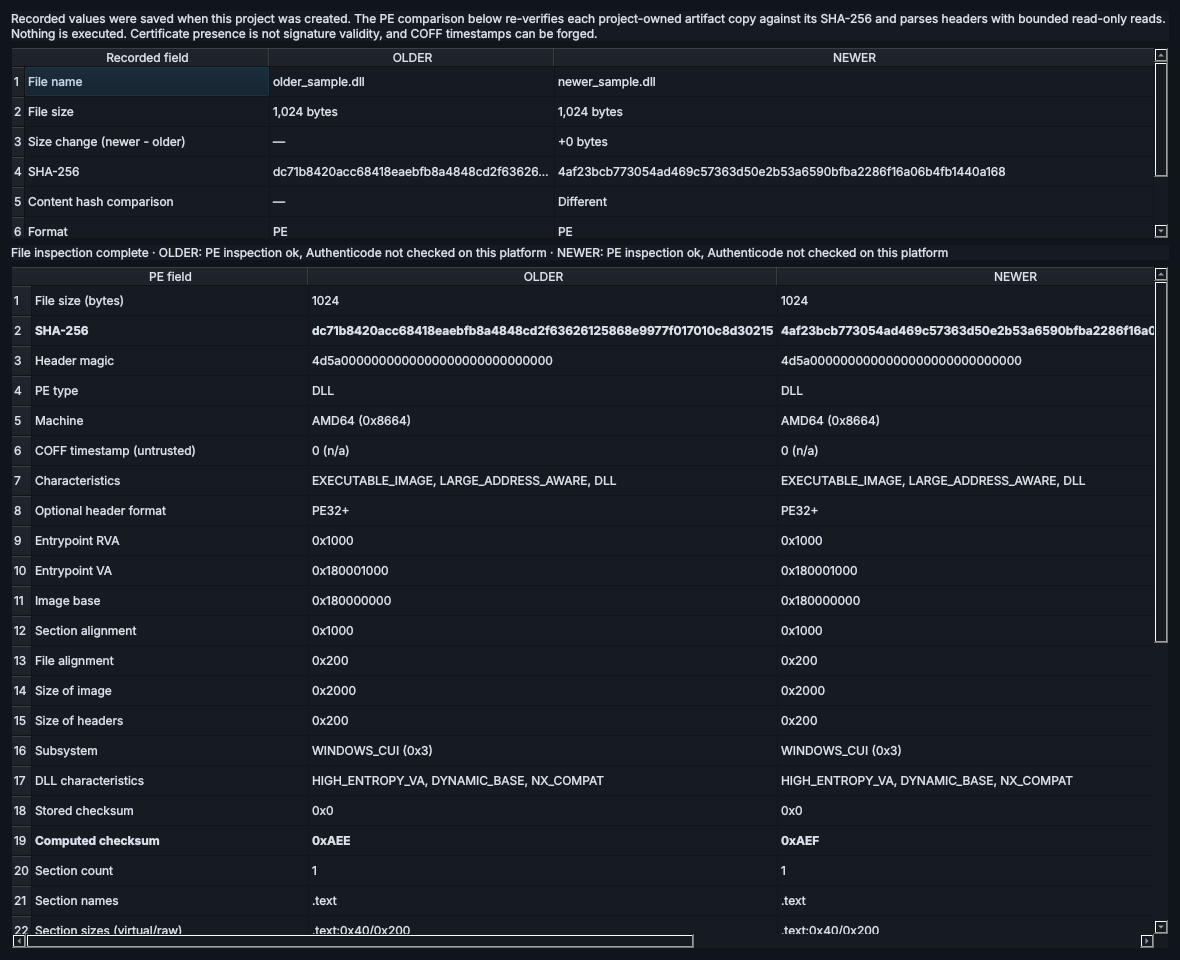
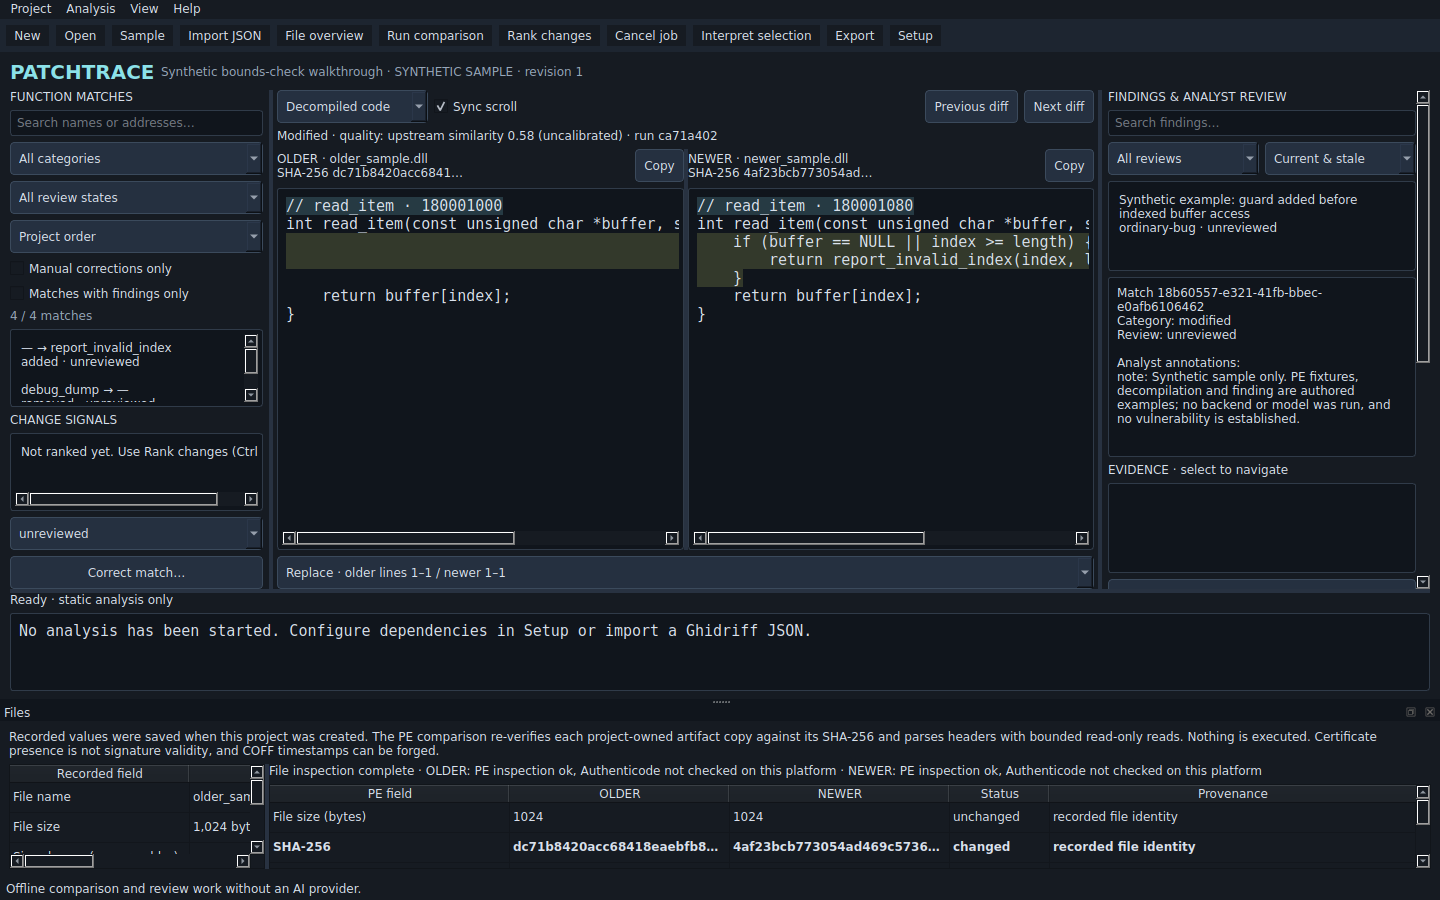
Fix C source locator inside extern linkage blocks (#97)
find_functions now locates definitions inside extern "C" and extern "C++" blocks while keeping single-declaration linkage specifications working. Records the full local QA result in docs/qa.md.

diff --git a/tools/site/render_screenshots.py b/tools/site/render_screenshots.py
@@ -53,10 +53,17 @@ class Context:
         from patchtrace.service import ProjectService
         from patchtrace.ui import MainWindow
         self.app = QApplication.instance() or QApplication(['patchtrace-site'])
-        self.service = ProjectService.sample(tmp / 'sample-project')
         settings = QSettings(str(tmp / 'ui.ini'), QSettings.Format.IniFormat)
-        self.window = MainWindow(self.service, settings, tmp / 'profiles')
-        self.window.evidence.auto_probe = False  # never probe the machine for engines while rendering
+        # Construct the real window before attaching a project so the eager evidence panel can be
+        # configured before project_changed() runs. Screenshot generation must never probe host tools.
+        self.window = MainWindow(None, settings, tmp / 'profiles')
+        evidence = self.window.panels.controller('evidence')
+        if evidence is None:
+            raise ScreenshotError('the eager engine evidence panel was not constructed')
+        evidence.auto_probe = False
+        self.service = ProjectService.sample(tmp / 'sample-project')
+        self.window.service = self.service
+        self.window.refresh()
         self.window.resize(WIDTH, HEIGHT)
         self.window.show()
         self.pump()
@@ -96,7 +103,7 @@ class Context:
     def close(self):
         window = self.window
         try:
-            window.evidence.shutdown()
+            window.panels.shutdown()
         finally:
             window.close()
             if window.service:
@@ -138,11 +145,12 @@ def shot_ranked(ctx: Context):
 def shot_overview(ctx: Context):
     w = ctx.window
     w.show_file_overview()
-    dialog = w._preflight_dialog
-    ctx.wait(lambda: w._preflight_status.text().startswith('File inspection complete'), 'the PE inspection')
-    dialog.resize(1180, 960)
+    files = w.panels.controller('files')
+    if files is None:
+        raise ScreenshotError('the Files panel was not constructed')
+    ctx.wait(lambda: files.status.text().startswith('File inspection complete'), 'the PE inspection')
     ctx.pump()
-    return dialog
+    return w
 
 
 def shot_hex(ctx: Context):
@@ -196,13 +204,12 @@ SHOTS: tuple[Shot, ...] = (
          'panes.',
          'Raw Hex, Binary and Base64 views of the verified original bytes, with differing lines '
          'highlighted.', shot_hex),
-    Shot('overview', 'PE file overview',
-         'The File overview dialog. A first table lists recorded fields for the older and newer files '
-         '(name, size, size change, SHA-256, hash comparison, format). A status line reads file inspection '
-         'complete. A second, longer table lists parsed PE fields for both files, such as machine type '
-         'AMD64, characteristics, entry point, image base, alignment and subsystem.',
-         'File overview: recorded metadata plus a bounded, read-only PE comparison that works before any '
-         'analysis is run.', shot_overview),
+    Shot('overview', 'Files panel',
+         'The PatchTrace workspace with the Files dock open below it. The dock compares recorded fields for '
+         'the older and newer files (name, size, size change, SHA-256, hash comparison, format) with parsed '
+         'PE fields for both files, including machine type AMD64, characteristics, entry point, image base, '
+         'alignment and subsystem. The status line reports file inspection complete.',
+         'Files panel: recorded metadata and a bounded, read-only PE comparison alongside the workspace.', shot_overview),
     Shot('export', 'Report export preview',
          'The Export dialog. A format selector set to md, a destination field, a checkbox to include '
          'function code (off), one to include analyst notes (on), a note that absolute paths are redacted '

diff --git a/tools/calibration/tier_r/csrc.py b/tools/calibration/tier_r/csrc.py
@@ -173,6 +173,12 @@ def _chunk_ok(sig: list[Token], lo: int, hi: int) -> bool:
     return saw_paren
 
 
+def _is_linkage_open(sig: list[Token], i: int, chunk_start: int) -> bool:
+    """`extern "C" {` / `extern "C++" {` with nothing else in the chunk."""
+    return (i - chunk_start == 2 and sig[chunk_start].text == 'extern' and sig[chunk_start + 1].kind == 'string'
+            and sig[chunk_start + 1].text in {'"C"', '"C++"'})
+
+
 def find_functions(src: Source) -> list[FunctionDef]:
     sig = src.sig
     out: list[FunctionDef] = []
@@ -193,7 +199,17 @@ def find_functions(src: Source) -> list[FunctionDef]:
             chunk_start = i + 1
             i += 1
             continue
+        if t.kind == 'punct' and t.text == '}':
+            # only a linkage-block close can reach here at file scope (definition bodies are skipped whole)
+            chunk_start, pieces = i + 1, [i + 1]
+            i += 1
+            continue
         if t.kind == 'punct' and t.text == '{':
+            if _is_linkage_open(sig, i, chunk_start):
+                # `extern "C" { ... }` only changes linkage: its contents are file scope, so step inside
+                chunk_start, pieces = i + 1, [i + 1]
+                i += 1
+                continue
             close = _matching(sig, i, '{', '}')
             found, name_hi = None, i
             if i > chunk_start and _chunk_ok(sig, chunk_start, i) and sig[i - 1].text != ';':

diff --git a/tests/test_tier_r_csrc.py b/tests/test_tier_r_csrc.py
@@ -106,3 +106,34 @@ def test_unterminated_constructs_do_not_hang():
     for text in ('int f(void) { return "abc', 'int f(void) { /* open', "char c = '", 'int f(void) {{{', '#define X \\'):
         src = Source(text)
         assert isinstance(src.functions, list)
+
+
+EXTERN_C = '''#include <stdio.h>
+#ifdef __cplusplus
+extern "C" {
+#endif
+int before(int a)
+{
+    return a;
+}
+static int inner(void) { return 1; }
+#ifdef __cplusplus
+}
+#endif
+extern "C++" { int cxx(int a) { return a + 1; } }
+extern "C" int single(int a) { return a; }
+int after(int a) { return a * 2; }
+'''
+
+
+def test_functions_inside_extern_c_blocks_are_found():
+    names = [f.name for f in Source(EXTERN_C).functions]
+    assert names == ['before', 'inner', 'cxx', 'single', 'after']
+
+
+def test_extern_c_block_does_not_swallow_the_following_chunk():
+    src = Source(EXTERN_C)
+    after = src.by_name('after')[0]
+    assert not after.is_static and src.text[after.start:after.end].startswith('int after')
+    inner = src.by_name('inner')[0]
+    assert inner.is_static and src.text[inner.start:inner.end].startswith('static int inner')

diff --git a/tests/test_tier_r_eval_cli.py b/tests/test_tier_r_eval_cli.py
@@ -53,7 +53,7 @@ def test_mutate_plants_builds_and_labels_a_tiny_suite_pair(record_live_status, c
 def test_mutate_unknown_operator_is_an_error_not_blocked(capsys, store):
     code, doc = run(capsys, 'mutate', '--suite', str(ROOT / 'corpus/ours/_template/tiny'), '--operator', 'nope',
                     '--seed', '1')
-    assert code == 2 and doc['status'] == 'error'
+    assert code == 2 and doc['status'] == 'error' and 'unknown mutation operator' in doc['error']
 
 
 def test_aa_and_noise_default_to_the_first_suite_version(monkeypatch, tmp_path):

diff --git a/tools/calibration/tier_r/cli.py b/tools/calibration/tier_r/cli.py
@@ -193,6 +193,9 @@ def cmd_noise(args) -> tuple[int, dict]:
 
 
 def cmd_mutate(args) -> tuple[int, dict]:
+    from ..mutations.contracts import OPERATORS
+    if args.operator not in OPERATORS:
+        raise Usage(f'unknown mutation operator {args.operator!r}; choose from {list(OPERATORS)}')
     session = _session(args)
     doc = F.run_mutation(session, _base(args, session), args.operator, args.seed, opt=args.opt)
     name = F.write_doc(session.store, doc).name

diff --git a/docs/qa.md b/docs/qa.md
@@ -194,6 +194,36 @@ Not verified here: Windows; the frozen executable; a live backend for `rules pro
 | Known gates | one test per state L0-L8 and each gate and window banner; banned-string sweep over every producible string (stems `probab`, `likelihood`, `confidence`, `percent`, `vulnerab`, `exploit`, `proven`, `certain`, `verified`, `safe`, `secure`, with the sanctioned phrases removed); no enum slug and no percent sign in any cell; hostile names, notes and tooltips stay text; `a11y_audit` clean in every state; no new top-level window; late results dropped on a project switch; shutdown cancels and waits |
 | Not verified here | Windows; real screen readers; a PE-backed project (the resolver finds no row in the synthetic sample, so Go to function is only exercised with an injected resolver); the freeze of the GUI-thread collection on a large project |
 
+### [T9:extern-c-linkage] C source function locator regression (2026-10-20, Linux container)
+| Check | Evidence | Result |
+|---|---|---|
+| Focused tests | `QT_QPA_PLATFORM=offscreen python -m pytest -q tests/test_tier_r_csrc.py tests/test_mutations_ops.py` | 29 passed, 23 skipped; skips are compiler-backed mutation acceptance checks because Clang is not installed/on PATH |
+| Lint and patch hygiene | `python -m ruff check tools/calibration/tier_r/csrc.py tests/test_tier_r_csrc.py`; `git diff --check` | clean |
+| Scope | `find_functions` tests cover definitions before, inside, and after `extern "C" {}` linkage blocks plus standalone `extern "C"` declarations | pass |
+| Independent review | reviewed parser boundary handling and tests | approved; tests do not invoke a C/C++ preprocessor |
+
+### Full-suite Linux container run (2026-10-20; CPython 3.12)
+| Check | Evidence | Result |
+|---|---|---|
+| Full suite | `QT_QPA_PLATFORM=offscreen python -m pytest -q` | 15,716 passed, 12 failed, 83 skipped, 4 xfailed in 1,711.93 s |
+| Locally reproducible product issues | screenshot renderer and unknown mutation operator failures listed above | both fixed; combined rerun of `tests/test_site_screens.py` and `tests/test_tier_r_eval_cli.py`: 27 passed, 2 skipped |
+| Environment-limited failures | isolated `python -I` import checks, local AF_UNIX socket test, and three time-budget tests | `-I` subprocesses cannot see this environment's editable install (`ModuleNotFoundError`); AF_UNIX creation is denied by the container; budget tests failed under full-suite load but the 26 relevant cases passed in isolation |
+| Cross-runner confirmation | GitHub Actions run 39456546905 on Windows and Ubuntu | both runners passed the complete pytest suite and Ruff; Windows later failed only at the NSIS installer compile step, tracked under PR #95 |
+
+### [site-screens:files-panel] Site screenshot renderer follows the current panel UI (2026-10-20, Linux offscreen)
+| Check | Evidence | Result |
+|---|---|---|
+| Screenshot generation | `QT_QPA_PLATFORM=offscreen python tools/site/render_screenshots.py --only overview` | rendered current Files dock at 1440x900; synthetic project; no engine probing |
+| Site screenshot suite | `QT_QPA_PLATFORM=offscreen python -m pytest -q tests/test_site_screens.py` | 12 passed |
+| Lint and patch hygiene | `python -m ruff check tools/site/render_screenshots.py tests/test_site_screens.py`; `git diff --check` | clean |
+| Updated visual asset | `site/assets/screens/overview.png`, `.webp`, `screens.json` | reflects the Files dock in the workspace rather than the removed overview dialog |
+
+### [T9:mutation-cli-usage] Unknown mutation operator validation (2026-10-20, Linux container)
+| Check | Evidence | Result |
+|---|---|---|
+| Regression test | `QT_QPA_PLATFORM=offscreen python -m pytest -q tests/test_tier_r_eval_cli.py` | 15 passed, 2 skipped; compiler/toolchain acceptance cases remain blocked because Clang/LLVM tools are not installed/on PATH |
+| Lint and patch hygiene | `python -m ruff check tools/calibration/tier_r/cli.py tests/test_tier_r_eval_cli.py`; `git diff --check` | clean |
+| Behavior | Unknown `mutate --operator` is rejected as a usage error before probing compiler tools; JSON status is `error` and exit code is 2 | pass |
 ### Windows installer source-path fix (PR #95 follow-up)
 - GitHub Actions run 39012939220 failed compiling `installer/PatchTrace.nsi`: NSIS could not open the relative `LICENSE` path from the script's directory.
 - Anchored installer input and output paths to `${__FILEDIR__}..` with `REPO_ROOT`; added static regression coverage for the license, bundle, notice, generated uninstaller manifest, and output paths.

diff --git a/docs/plans/master-todo-d.md b/docs/plans/master-todo-d.md
@@ -11,7 +11,7 @@ Tags: [BUILD] code to write, [SPEC] a spec is missing or thin, [PLAN] needs a sh
 - T6 [PLAN] S: reconcile `UI_TRANSITIONAL_CEILING` (-65) and the `panels` budget in `test_gui_host_seam.py` after PR merges.
 - T7 [BUG] S: CI repeat job: add `python tools/qt_gate.py --repeat 20` (Linux) / `--repeat 5` (Windows) job text from `docs/qa.md` [GUI-F5:host] to `.github/workflows` (A owns workflows: send as integrator ask or do in D's PR).
 - T8 [BUG] S: F4 timing test (data-calls) flaked once under load: make the ceiling load-tolerant (`>=` style, no fixed sleeps).
-- T9 [BUG] S: ghidriff `csrc.find_functions` skips code inside `extern "C" {` (LBL).
+- [x] T9 [BUG] S: ghidriff `csrc.find_functions` skips code inside `extern "C" {` (LBL); fixed and covered by `tests/test_tier_r_csrc.py` (2026-10-20).
 - T10 [BUG] S: `_java_version` timeout in `backend.py` (A's note) - bundle owner path.
 - T11 [BUG] S: B-0 follow-ups (rapidfuzz/yara-x licences in `licenses/`, `dependency-versions.json`, `copy_metadata`, declare `shiboken6==6.12.0`).
 - T12 [PLAN] S: tasks/todo.md duplicate lines (F8 in OUTSTANDING ledger): collapse in one tracker-only commit.
@@ -54,7 +54,7 @@ Tags: [BUILD] code to write, [SPEC] a spec is missing or thin, [PLAN] needs a sh
 - L1 [PLAN] M: LBL remaining-slice dependency map from `LBL-integration-plan.md` section 9: LBL-02..05, 07, 08, 12, 13, 15, 16, 18..25 (state which are hard).
 - L2 [BUILD] XL: implement in order; recipes from permissive sources only, planted mutations, A/A controls, CVE-fix cases; evaluation harness; shard runner; honest-scope policy.
 - L3 [QA][EXT] XL: Tier R training run in Actions matrices (aggregate metrics only, never images, no Microsoft data); preregistration hash recorded; strong results required: report paired bootstrap CIs, power, A/A false-positive rate, no leakage; if results are weak, stop and ask the owner.
-- L4 [BUG] S: csrc extern "C" (T9); `power.py` formulas flagged for review (review them).
+- L4 [BUG] S: `csrc` extern "C" (T9) fixed 2026-10-20; `power.py` formulas flagged for review (review them).
 - L5 [AUDIT] L: audit calibration + tools/calibration (leakage, label noise, honest scope).
 - L6 [OWNER] Tier W local runs (Microsoft-derived data stays on the owner machine).
 

diff --git a/tasks/todo.md b/tasks/todo.md
@@ -1,4 +1,6 @@
 # PatchTrace delivery tracker
+- [x] Fixed the two locally reproducible full-suite issues recorded in `docs/qa.md`: site screenshot renderer follows the Files panel; Tier R rejects an unknown mutation operator before toolchain probing. Focused rerun: 27 passed, 2 skipped.
+- [x] Linux-container-only full-suite failures documented in `docs/qa.md` are environment limitations (`python -I` excludes the editable install; AF_UNIX sockets are denied; timing budgets are load-sensitive); full pytest and Ruff passed on Windows and Ubuntu CI (run 39456546905).
 
 ## Windows Setup release track (PR #95, 2026-10-17)
 - [x] Implement pinned NSIS per-user Windows installer on existing PyInstaller onedir runtime.
